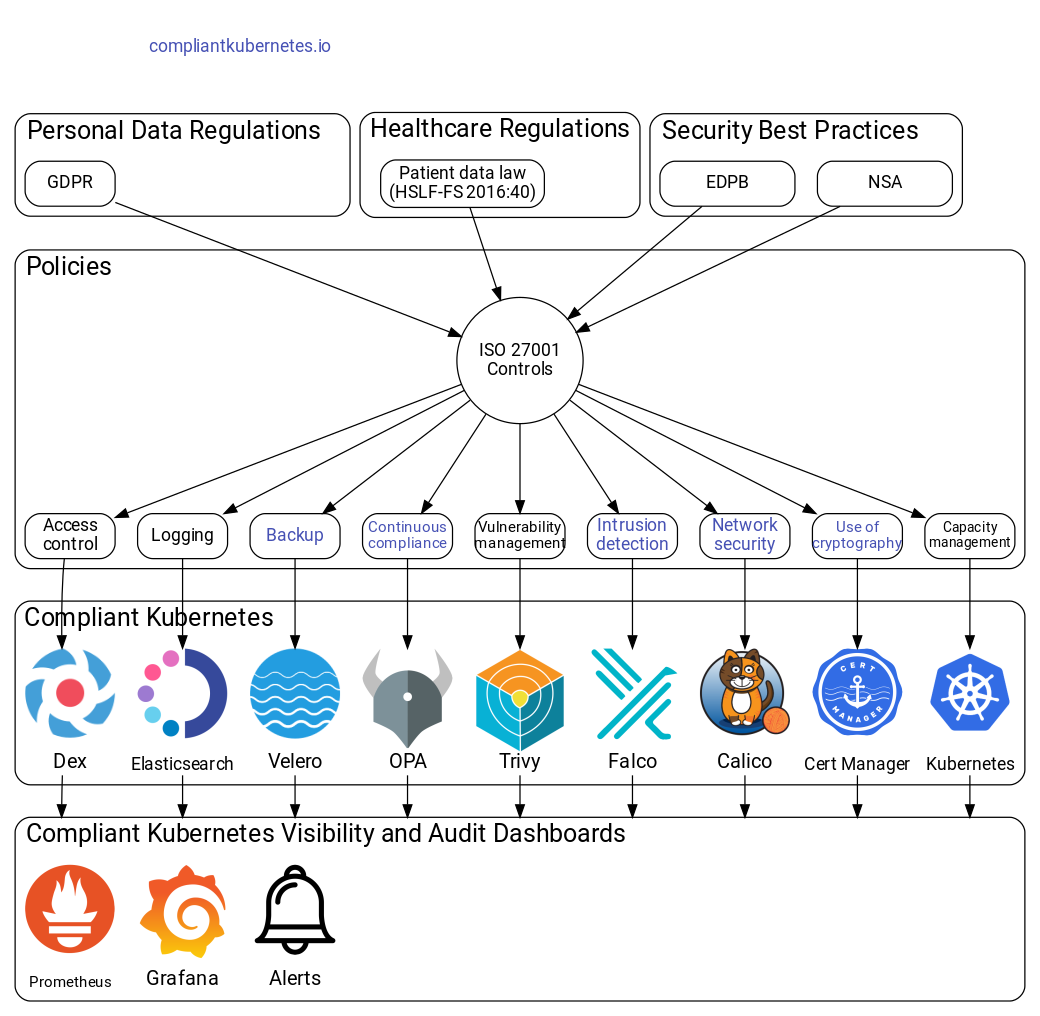
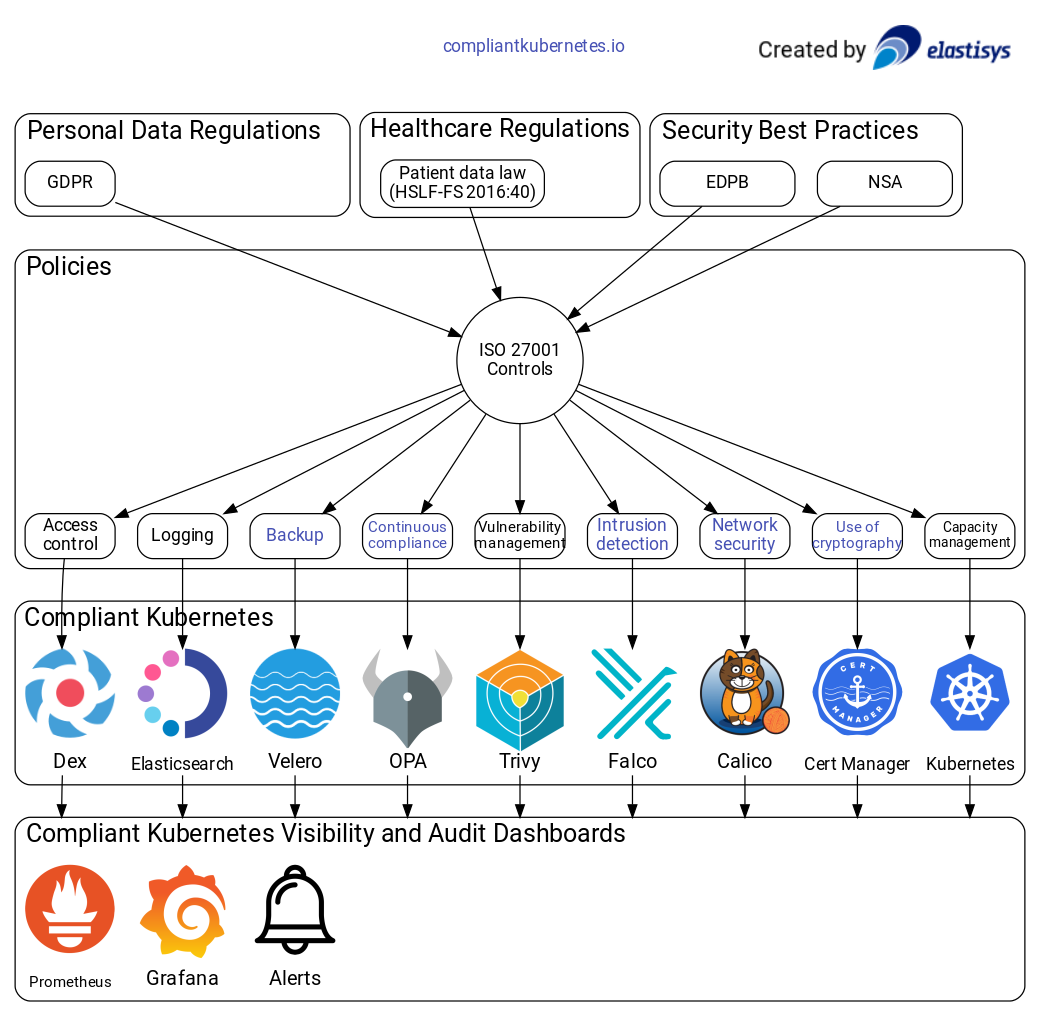
Add 'created by'

diff --git a/docs/index.md b/docs/index.md
@@ -2,6 +2,10 @@
 
 ![Comparison of vanilla Kubernetes and Compliant Kubernetes](img/comparison-chart.png)
 
+<center>
+![Created by Elastisys](img/logos/created-by.svg)
+</center>
+
 Compliant Kubernetes is a [Certified Kubernetes](https://landscape.cncf.io/organization=elastisys&selected=elastisys-compliant-kubernetes) distribution, i.e., an opinionated way of packaging and configuring Kubernetes together with other projects. Compliant Kubernetes reduces the compliance burden, as required to comply with:
 
 * [Health Insurance Portability and Accountability Act (HIPAA)](https://elastisys.com/hipaa-compliance-kubernetes-privacy-rule/)
